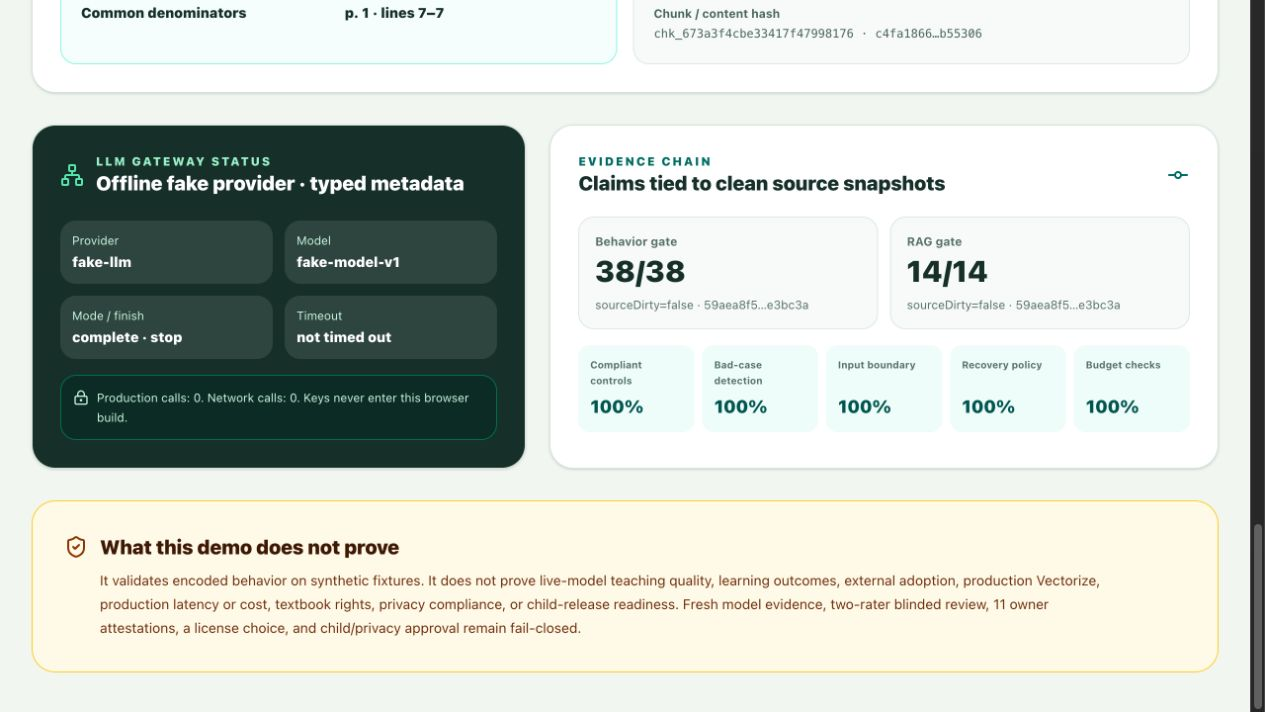
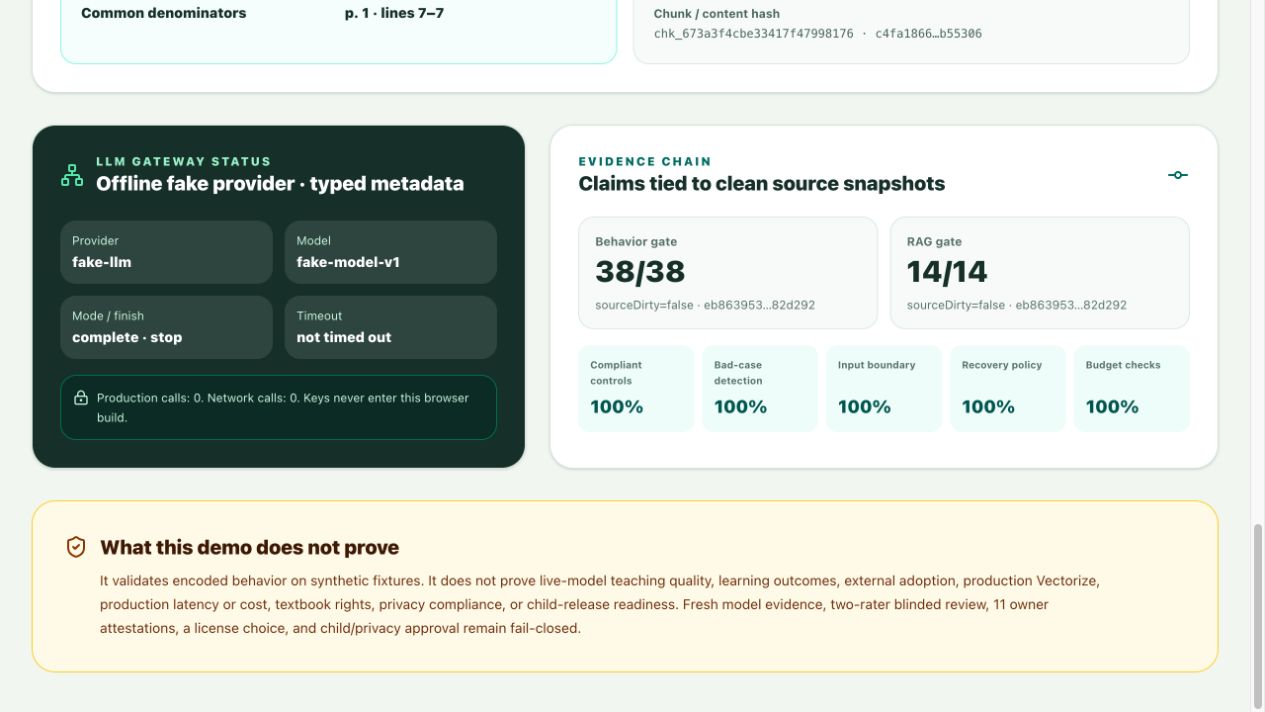
chore(evidence): pair public positioning update

Changed region(s): [[0.9866, 0.0, 1.0, 1.0], [0.8016, 0.4017, 0.8941, 0.4326], [0.5549, 0.4017, 0.6474, 0.4326]]

diff --git a/evals/results/latest.md b/evals/results/latest.md
@@ -3,7 +3,7 @@
 - Deterministic gate: **PASS**
 - Cases matched: **38/38**
[1 lines of base64/hex data omitted]
-- Source commit: `59aea8f55699b238b1a384c45bcda077fae3bc3a`
+- Source commit: `eb8639533819edbf72e7b57289e27ca9e382d292`
[1 lines of base64/hex data omitted]
 - Production model calls: **0**
 - Real child records: **0**

diff --git a/evals/rag/results/latest.md b/evals/rag/results/latest.md
@@ -5,7 +5,7 @@
 - Mean recall@k: **1.00**
 - Mean precision@k: **1.00**
 - Citation correctness: **1.00**
-- Source commit: `59aea8f55699b238b1a384c45bcda077fae3bc3a`
+- Source commit: `eb8639533819edbf72e7b57289e27ca9e382d292`
[1 lines of base64/hex data omitted]
 - Production model/network calls: **0/0**
 - Real textbook/child records: **0/0**
